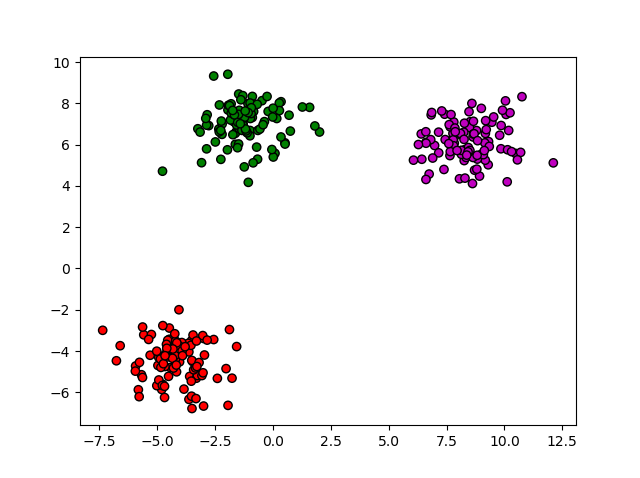
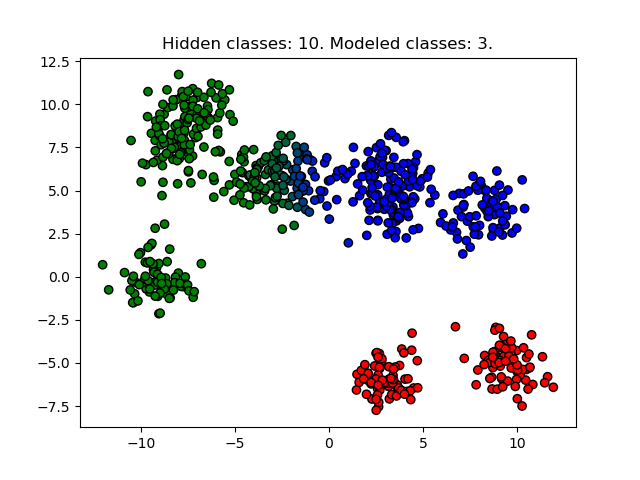
Used KMeans to init GMM. Added shading plots, and new samples.

diff --git a/main.py b/main.py
@@ -10,25 +10,46 @@ import matplotlib.colors as c
 from sklearn.datasets.samples_generator import make_blobs
 
 def main():
-    hidden_classes = 3
+    hidden_classes = 2
     model_classes = 3
-    X, Y = make_blobs(n_samples=300, centers=hidden_classes)
+    X, Y = make_blobs(n_samples=700, centers=hidden_classes)
 
     # Init and fit Gaussian Mixture Model
-    model = GaussianMixtureModel()
-    Q = model.fit(X, model_classes)
+    GMM = GaussianMixtureModel()
+    Q = GMM.fit(X, model_classes)
+    
 
     # Visualize data where we assign each X_n to
     # the class it has highest probability.
-    vis_data(X, np.argmax(Q, axis=1))
+    vis_data_shade(X, Q, model_classes, hidden_classes)
 
-# Simple vis_data. TODO: support shading where for each point
-# we shade class colors proportional to the probability that
-# the point belongs to that class.
-def vis_data(x,y):
-    # Add more colors here if model_classes > 4
-    cMap = c.ListedColormap(['r', 'b', 'g', 'm'])
-    plt.scatter(x[:,0], x[:,1], c=y, cmap=cMap, edgecolor='black')
+# Shades each point proportional to the probability that the point
+# belongs to that class.
+def vis_data_shade(X, Q, n_classes, hidden_classes):
+    # Use specific RGB values instead of discrete char identifiers if num_classes > 8
+    char_colors = ['r', 'g', 'b', 'c', 'm', 'y', 'k', 'w']
+    rgb_colors = []
+    for i in range(n_classes):
+        rgb_colors.append(c.to_rgb(char_colors[i]))
+    rgb_colors = np.array(rgb_colors).flatten()
+    colorings = np.zeros((Q.shape[0], 3))
+    for n in range(Q.shape[0]):
+        for k in range(Q.shape[1]):
+            # Calculate R,G,B contributions
+            colorings[n,0] += Q[n,k]*rgb_colors[k*3]
+            colorings[n,1] += Q[n,k]*rgb_colors[k*3+1]
+            colorings[n,2] += Q[n,k]*rgb_colors[k*3+2]
+    
+
+    plt.scatter(X[:,0], X[:,1], c=colorings, edgecolor='black')
+    plt.title("Hidden classes: " + str(hidden_classes) + ". Modeled classes: " + str(n_classes) + ".")
+    plt.show()
+
+# Vis_data for discrete class assignments.
+def vis_data(X, Z):
+    # Use specific RGB values instead of discrete char identifiers if num_classes > 8
+    cMap = c.ListedColormap(['r', 'g', 'b', 'c', 'm', 'y', 'k', 'w'])
+    plt.scatter(X[:,0], X[:,1], c=Z, cmap=cMap, edgecolor='black')
     plt.show()
 
 if __name__ == '__main__':

diff --git a/KM.py b/KM.py
@@ -1,0 +1,70 @@
+
+import numpy as np
+import random
+
+class KMeans:
+    def __init__(self):
+        return
+    
+    def fit(self, X, K):
+        # init params
+		N = X.shape[0]
+		D = X.shape[1]
+		z = np.zeros(N, dtype=int)
+	
+        # Random restart: choose each mean to be a random member of X
+		means = np.zeros((K, D))
+		S = []
+		for i in range(K):
+			randint = random.randint(0, N - 1)
+			while randint in S:
+				randint = random.randint(0, N - 1)
+			S.append(randint)
+			means[i] = X[randint]
+		del S
+
+
+        # Perform coordinate ascent in {means}, {z} until
+        # algorithm has converged (there were no changes)
+		while True:
+			j = 0
+			changed = False
+			for datum in X:
+				argmin = 0
+				mindist = 0
+				i = 0 
+				init = False
+				for mean in means:
+					dist = np.linalg.norm(datum - mean)
+					if not init:
+						argmin = i
+						mindist = dist
+						init = True
+					elif dist < mindist:
+						argmin = i
+						mindist = dist
+					i += 1
+
+				# Reassign point's class to the closest mean
+				if z[j] != argmin:
+					changed = True
+				z[j] = argmin
+				j += 1
+			
+			# If no datum had its class reassigned, we have converged.
+			if not changed:
+				break
+			
+			for i in range(K):
+				# Recalculate means of classes.
+				num_assigned = 0
+				sum_matr = np.zeros((1,D))
+				for j in range(N):
+					if z[j] == i:
+						sum_matr += X[j]
+						num_assigned += 1
+				sum_matr /= num_assigned
+				means[i] = sum_matr
+        
+        # Return cluster classes.
+		return z

diff --git a/GMM.py b/GMM.py
@@ -1,5 +1,6 @@
 import numpy as np
 from scipy.stats import multivariate_normal
+from KM import KMeans
 import math
 
 class GaussianMixtureModel:
@@ -12,14 +13,19 @@ class GaussianMixtureModel:
         N = X.shape[0]
         D = X.shape[1]
 
-        # Initialize {q}, {pi, mu, Sigma}
-        # Here we just initialize Q randomly Unif[0,1] and normalize each row,
-        # and {pi, mu, Sigma} are implicit from Q, but it would be better to
-        # run K-means and use the result as an initialization.
+        # Initialize {Q}, {Pi, Mu, Sigma}.
+        # Here we run KMeans to cluster and use the result as an initialization of {Q},
+        # and {Pi, Mu, Sigma} are implicit from the resulting {Q}.
+        KM = KMeans()
+        Z = KM.fit(X, K)
+        Q = np.zeros((N, K))
+        Q[np.arange(N), Z] = 1
+        
+        """
         Q = np.random.rand(N, K)
         for row in Q:
             row /= np.sum(row)
-
+        """
 
         # Perform coordinate ascent until difference 
         # in log-likelihood is small (here: < 1e-1)
@@ -67,3 +73,8 @@ class GaussianMixtureModel:
                 sum += Q[n,k]*math.log(Pi[k])
                 sum += Q[n,k]*multivariate_normal.logpdf(X[n], mean=Mu[:,k], cov=Sigma[k])
         return sum
+    
+    # Softmax a row vector
+    def __softmax(self, row):
+        sum = np.sum(np.exp(row))
+        return np.exp(row) / sum

diff --git a/README.md b/README.md
@@ -8,21 +8,11 @@ Here is a simple implementation of Gaussian Mixture Models to cluster unlabeled 
 
 For these images, we generate data from actual/hidden Gaussian components and then model the resulting data with GMM.
 
-3 hidden clusters, modeling 3 clusters:
+![4 hidden, 4 modeled](imgs/sample1.png)
 
-![3 hidden, 3 modeled](imgs/sample2.png)
+![10 hidden, 3 modeled](imgs/sample2.png)
 
-4 hidden clusters, modeling 2 clusters:
- 
-![4 hidden, 2 modeled](imgs/sample3.png)
- 
-![4 hidden, 2 modeled](imgs/sample4.png)
+![5 hidden, 3 modeled](imgs/sample3.png)
 
-5 hidden clusters, modeling 5 clusters:
- 
-![5 hidden, 5 modeled](imgs/sample6.png)
-
-6 hidden clusters, modeling 3 clusters:
-
-![6 hidden, 3 modeled](imgs/sample7.png)
+![2 hidden, 3 modeled](imgs/sample4.png)
 
